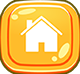
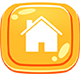
change buttons

Changed region(s): [[0.0, 0.0, 1.0, 0.4865], [0.0, 0.5135, 0.45, 1.0], [0.55, 0.5946, 1.0, 1.0]]

diff --git a/game1/startScreen.html b/game1/startScreen.html
@@ -1,101 +1,58 @@
 <html>
-  <head>
+
+<head>
     <meta name="viewport" content="width=device-width, initial-scale=1" />
     <title>SortYourWaste</title>
-    <link
-      rel="stylesheet"
-      href="https://cdnjs.cloudflare.com/ajax/libs/font-awesome/4.7.0/css/font-awesome.min.css"
-    />
+    <link rel="stylesheet" href="https://cdnjs.cloudflare.com/ajax/libs/font-awesome/4.7.0/css/font-awesome.min.css" />
     <link rel="stylesheet" type="text/css" href="css/style.css" />
-  </head>
+</head>
 
-  <body>
+<body>
     <img src="assets/Webpage/background.jpg" class="bg" />
     <div class="container">
-      <div class="button">
-        <ul>
-          <li>
-            <a class="cta" href="/game1/game.html">
-              <span>PLAY</span>
-              <span>
-                <svg
-                  width="66px"
-                  height="43px"
-                  viewBox="0 0 66 43"
-                  version="1.1"
-                  xmlns="http://www.w3.org/2000/svg"
-                  xmlns:xlink="http://www.w3.org/1999/xlink"
-                >
-                  <g
-                    id="arrow"
-                    stroke="none"
-                    stroke-width="1"
-                    fill="none"
-                    fill-rule="evenodd"
-                  >
-                    <path
-                      class="one"
-                      d="M40.1543933,3.89485454 L43.9763149,0.139296592 C44.1708311,-0.0518420739 44.4826329,-0.0518571125 44.6771675,0.139262789 L65.6916134,20.7848311 C66.0855801,21.1718824 66.0911863,21.8050225 65.704135,22.1989893 C65.7000188,22.2031791 65.6958657,22.2073326 65.6916762,22.2114492 L44.677098,42.8607841 C44.4825957,43.0519059 44.1708242,43.0519358 43.9762853,42.8608513 L40.1545186,39.1069479 C39.9575152,38.9134427 39.9546793,38.5968729 40.1481845,38.3998695 C40.1502893,38.3977268 40.1524132,38.395603 40.1545562,38.3934985 L56.9937789,21.8567812 C57.1908028,21.6632968 57.193672,21.3467273 57.0001876,21.1497035 C56.9980647,21.1475418 56.9959223,21.1453995 56.9937605,21.1432767 L40.1545208,4.60825197 C39.9574869,4.41477773 39.9546013,4.09820839 40.1480756,3.90117456 C40.1501626,3.89904911 40.1522686,3.89694235 40.1543933,3.89485454 Z"
-                      fill="#FFFFFF"
-                    ></path>
-                    <path
-                      class="two"
-                      d="M20.1543933,3.89485454 L23.9763149,0.139296592 C24.1708311,-0.0518420739 24.4826329,-0.0518571125 24.6771675,0.139262789 L45.6916134,20.7848311 C46.0855801,21.1718824 46.0911863,21.8050225 45.704135,22.1989893 C45.7000188,22.2031791 45.6958657,22.2073326 45.6916762,22.2114492 L24.677098,42.8607841 C24.4825957,43.0519059 24.1708242,43.0519358 23.9762853,42.8608513 L20.1545186,39.1069479 C19.9575152,38.9134427 19.9546793,38.5968729 20.1481845,38.3998695 C20.1502893,38.3977268 20.1524132,38.395603 20.1545562,38.3934985 L36.9937789,21.8567812 C37.1908028,21.6632968 37.193672,21.3467273 37.0001876,21.1497035 C36.9980647,21.1475418 36.9959223,21.1453995 36.9937605,21.1432767 L20.1545208,4.60825197 C19.9574869,4.41477773 19.9546013,4.09820839 20.1480756,3.90117456 C20.1501626,3.89904911 20.1522686,3.89694235 20.1543933,3.89485454 Z"
-                      fill="#FFFFFF"
-                    ></path>
-                    <path
-                      class="three"
-                      d="M0.154393339,3.89485454 L3.97631488,0.139296592 C4.17083111,-0.0518420739 4.48263286,-0.0518571125 4.67716753,0.139262789 L25.6916134,20.7848311 C26.0855801,21.1718824 26.0911863,21.8050225 25.704135,22.1989893 C25.7000188,22.2031791 25.6958657,22.2073326 25.6916762,22.2114492 L4.67709797,42.8607841 C4.48259567,43.0519059 4.17082418,43.0519358 3.97628526,42.8608513 L0.154518591,39.1069479 C-0.0424848215,38.9134427 -0.0453206733,38.5968729 0.148184538,38.3998695 C0.150289256,38.3977268 0.152413239,38.395603 0.154556228,38.3934985 L16.9937789,21.8567812 C17.1908028,21.6632968 17.193672,21.3467273 17.0001876,21.1497035 C16.9980647,21.1475418 16.9959223,21.1453995 16.9937605,21.1432767 L0.15452076,4.60825197 C-0.0425130651,4.41477773 -0.0453986756,4.09820839 0.148075568,3.90117456 C0.150162624,3.89904911 0.152268631,3.89694235 0.154393339,3.89485454 Z"
-                      fill="#FFFFFF"
-                    ></path>
-                  </g>
-                </svg>
-              </span>
-            </a>
-          </li>
-          <!-- <li>
-            </li> -->
-        </ul>
-      </div>
-      <div class="button">
-        <a
-          href="/index.html"
-          class="action-button shadow animate blue"
-          ><i class="fa fa-home"></i
-        ></a>
-        <a href="#" id="myBtn" class="action-button shadow animate blue"
-          ><i class="fa fa-info"></i
-        ></a>
-      </div>
+        <div class="button">
+            <ul>
+                <li>
+                    <a class="cta" href="/game1/game.html">
+                        <img src="assets/common/play.png" />
+                    </a>
+                </li>
+            </ul>
+        </div>
+        <div class="button">
+            <a href="/index.html"><img src="assets/common/icon_home.png" /></a>
+            <a href="#" id="myBtn"><img src="assets/common/icon_info.png" /></a>
+        </div>
     </div>
 
     <div id="myModal" class="modal">
-      <div class="modal-content">
-        <h1>Welcome to Sort Your Waste!</h1>
-        <p>
-          Drag the items that show up on top corner of screen to correct bin and
-          gain points! Put item in wrong bin and you lose points
-        </p>
-        <p>
-          Finish game within the timer to complete level. Complete all three
-          level to WIN!!!
-        </p>
-      </div>
+        <div class="modal-content">
+            <h1>Welcome to Sort Your Waste!</h1>
+            <p>
+                Drag the items that show up on top corner of screen to correct bin and
+                gain points! Put item in wrong bin and you lose points
+            </p>
+            <p>
+                Finish game within the timer to complete level. Complete all three
+                level to WIN!!!
+            </p>
+        </div>
     </div>
-  </body>
+</body>
 
-  <script>
+<script>
     var modal = document.getElementById('myModal');
     var btn = document.getElementById('myBtn');
 
-    btn.onclick = function() {
-      modal.style.display = 'block';
+    btn.onclick = function () {
+        modal.style.display = 'block';
     };
 
-    window.onclick = function(event) {
-      if (event.target == modal) {
-        modal.style.display = 'none';
-      }
+    window.onclick = function (event) {
+        if (event.target == modal) {
+            modal.style.display = 'none';
+        }
     };
-  </script>
+</script>
+
 </html>
